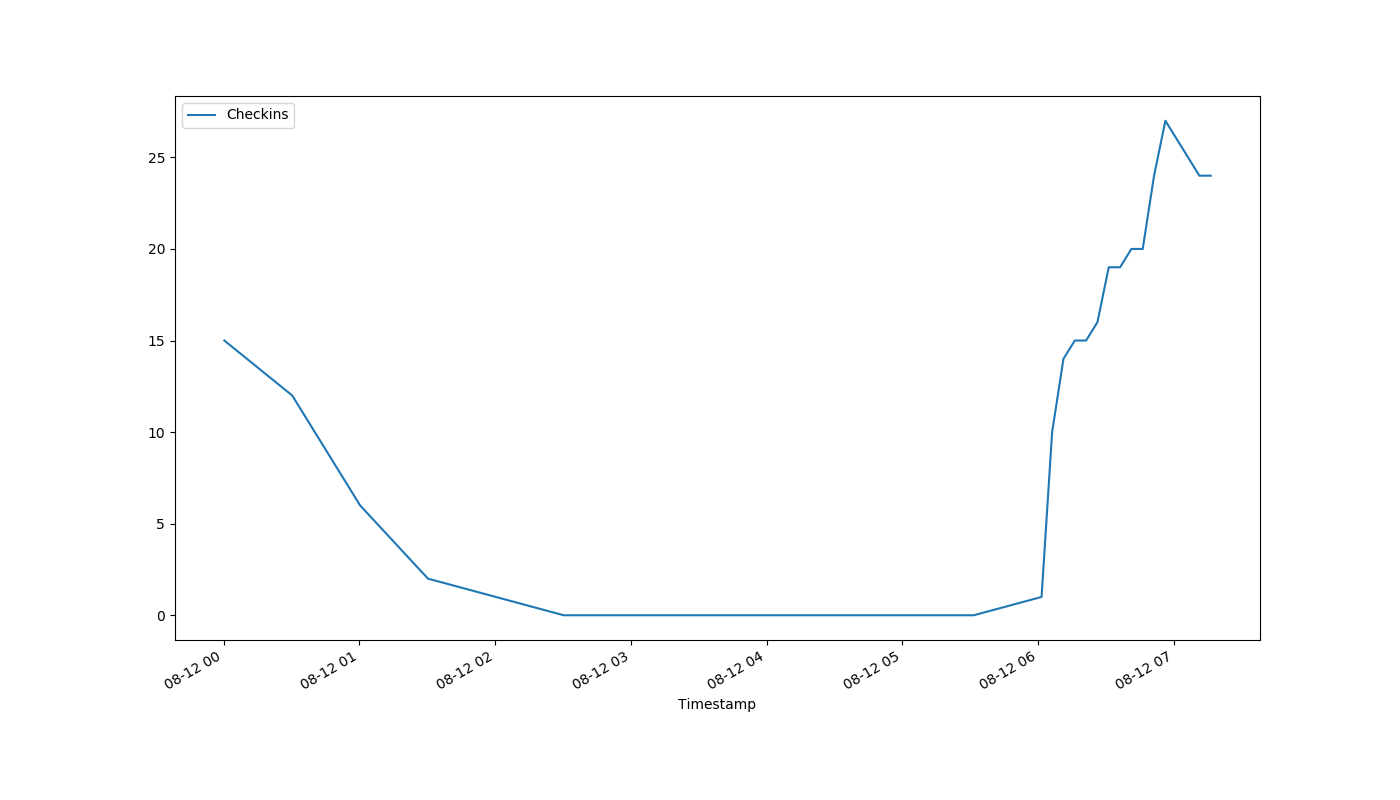
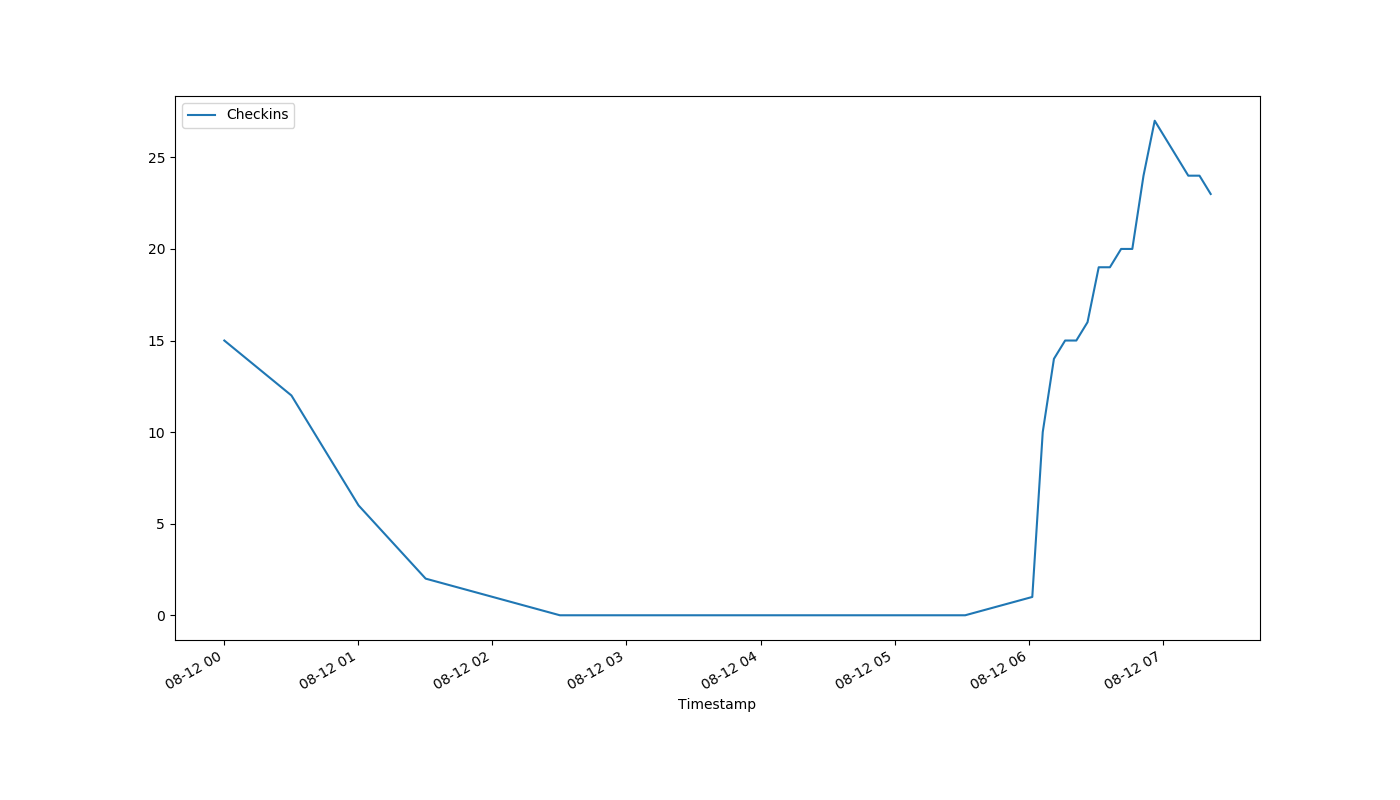
auto-Aug-12-07:22:30

diff --git a/index.html b/index.html
@@ -1,1 +1,1 @@
-<!DOCTYPE html><html><head><meta http-equiv="refresh" content="30"><link rel='stylesheet' href='holmcurrent.css'></head><body><p id='count'>24</p><div id='graph-wrap'><img id='graph' src='holmgraph-Aug-12.png'></div><p id='updated'>Last updated 07:17:13 / 07:16:15</p></body></html>
+<!DOCTYPE html><html><head><meta http-equiv="refresh" content="30"><link rel='stylesheet' href='holmcurrent.css'></head><body><p id='count'>23</p><div id='graph-wrap'><img id='graph' src='holmgraph-Aug-12.png'></div><p id='updated'>Last updated 07:22:13 / 07:21:15</p></body></html>
